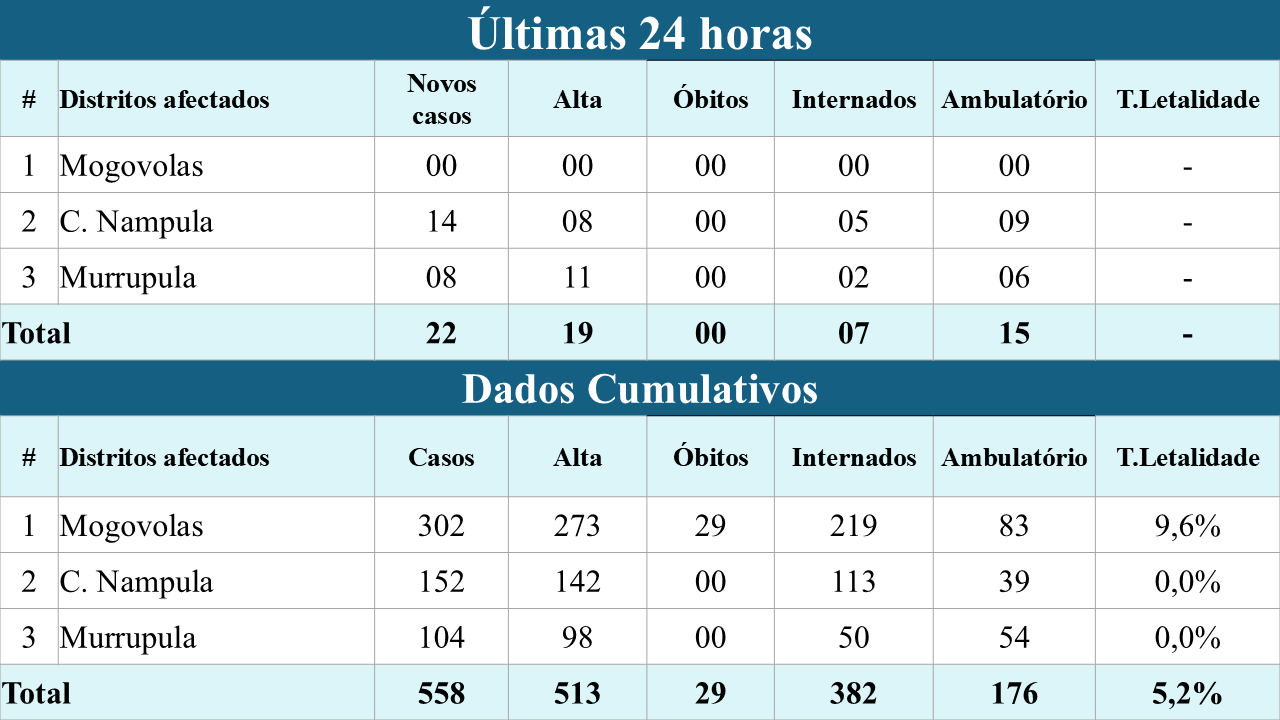
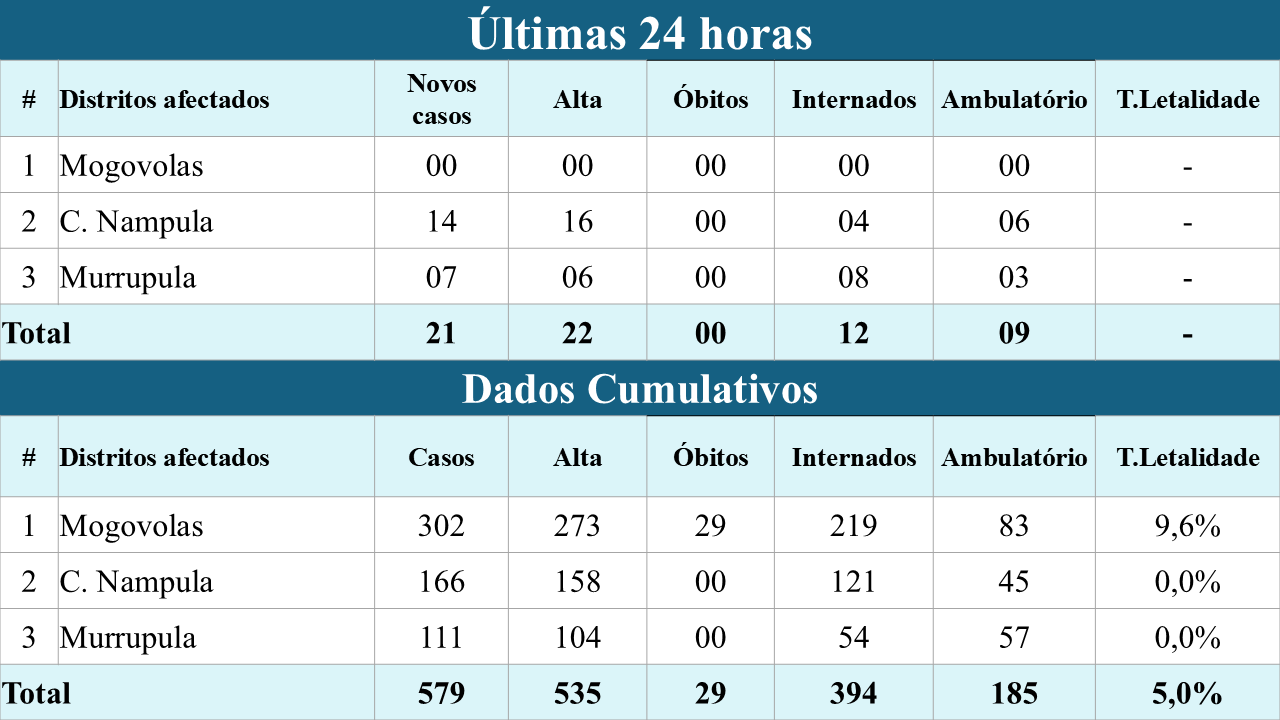
Add files via upload

diff --git a/index.html b/index.html
@@ -23,10 +23,10 @@
 
                 <div class="sub-menu-1">
                     <ul>
-                        <li> <a href="#">Novos casos: 22 </a> </li>
-                        <li>  <a href="#">Internados: 07 </a></li>
-                        <li>  <a href="#">Ambulatórios: 15 </a></li>
-                        <li>  <a href="#">Altas: 19 </a></li>
+                        <li> <a href="#">Novos casos: 21 </a> </li>
+                        <li>  <a href="#">Internados: 12 </a></li>
+                        <li>  <a href="#">Ambulatórios: 09 </a></li>
+                        <li>  <a href="#">Altas: 22 </a></li>
                         <li>  <a href="#">Óbitos: 00 </a></li>
                     </ul>
                 </div>
@@ -35,24 +35,24 @@
             <li> <a href="#">Dados Cumulativos </a>
                 <div class="sub-menu-1">
                     <ul>
-                        <li> <a href="#">Total de casos: 558 </a> </li>
-                        <li>  <a href="#">Internados: 382 </a></li>
-                        <li>  <a href="#">Ambulatórios: 176 </a></li>
-                        <li>  <a href="#">Altas: 513 </a></li>
+                        <li> <a href="#">Total de casos: 579 </a> </li>
+                        <li>  <a href="#">Internados: 394 </a></li>
+                        <li>  <a href="#">Ambulatórios: 185 </a></li>
+                        <li>  <a href="#">Altas: 535 </a></li>
                         <li>  <a href="#">Óbitos: 29 </a></li>
         </ul>
 
     </nav>
     <center>
         <header>
-         <H1>Mapeamento e representação gráfica dos casos de cólera na Província de Nampula de 17/10/2024 à 24/02/2025 </H1> 
+         <H1>Mapeamento e representação gráfica dos casos de cólera na Província de Nampula de 17/10/2024 à 25/02/2025 </H1> 
         </header>
         </center>
         <div class="card">
             <img src="mapa geral.png" class="card-img-top" alt="...">
             <div class="card-body">
               <h5 class="card-title">Mapa dos distritos afectados com casos de cólera </h5>
-              <p class="card-text">Fonte: Base de dados listagem de casos 24/02/2025</p>
+              <p class="card-text">Fonte: Base de dados listagem de casos 25/02/2025</p>
               <p class="card-text"><small class="text-muted">Ultima atualização</small></p>
             </div>
       <div class="card-group">
